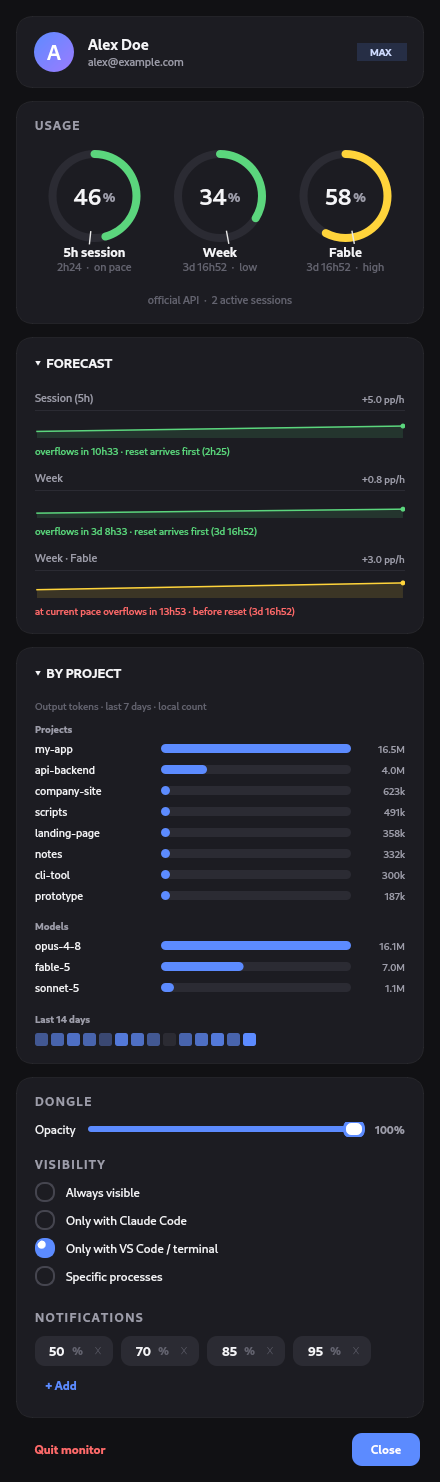
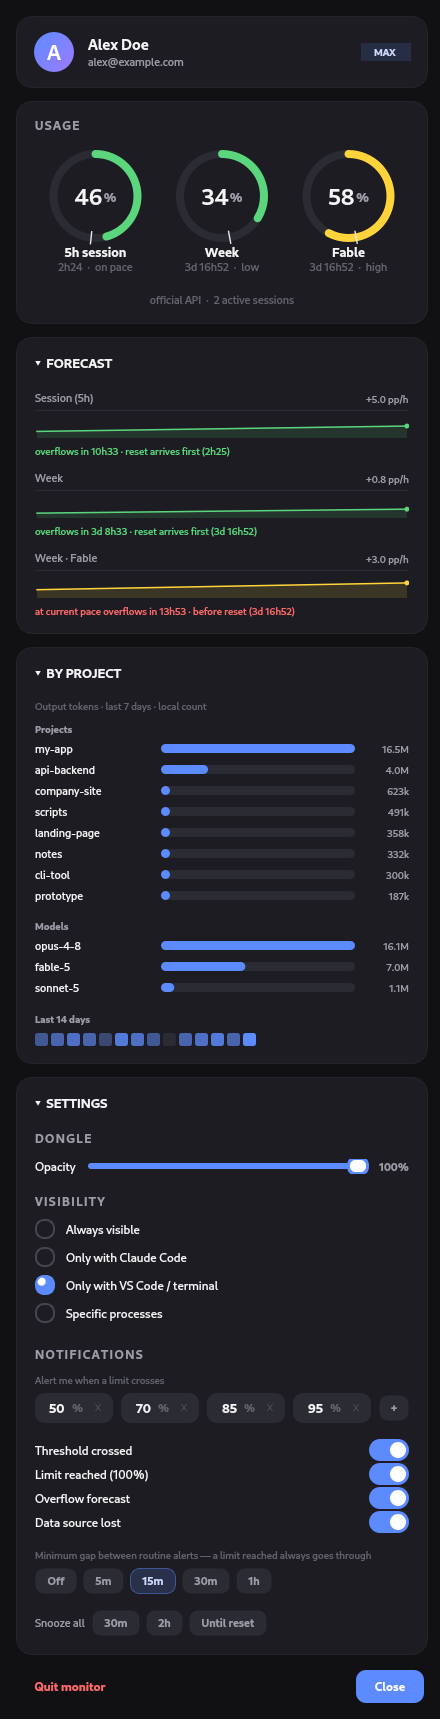
docs: refresh screenshots and describe the new border and alerts
The screenshot script also lifts the height cap before grabbing: adjustSize()
on a window whose child is a QScrollArea collapses it to the scroll area's
minimum, which cropped the dashboard PNG at 360px.

diff --git a/scripts/gen_screenshots.py b/scripts/gen_screenshots.py
@@ -125,20 +125,27 @@ def _cfg(**over):
 
 
 def gen_app_shots():
-    # dongle (opaque RGB 216x36, like the original; corner = gradient bottom color)
+    # dongle (opaque RGB 216x36; the corners get the same pure black as the body)
     d = DongleWidget(_cfg(show_mode="always"))   # always: doesn't hide during the grab
     d._overflow = False                          # clean border, no amber pulse
     d._critical = False
     d.update(); app.processEvents()
     pm = QPixmap(DONGLE_W, DONGLE_H)
-    pm.fill(QColor("#18181b"))
+    pm.fill(QColor("#000000"))
     d.render(pm)
     pm.save(str(OUT / "dongle.png"))
 
-    for name, over in (("dashboard", dict(forecast_expanded=False, projects_expanded=False)),
-                       ("dashboard-full", dict(forecast_expanded=True, projects_expanded=True))):
+    for name, over in (("dashboard", dict(forecast_expanded=False, projects_expanded=False,
+                                          settings_expanded=False)),
+                       ("dashboard-full", dict(forecast_expanded=True, projects_expanded=True,
+                                               settings_expanded=True))):
         w = DashboardWidget(_cfg(**over))
-        w.show(); app.processEvents(); w.adjustSize(); app.processEvents()
+        w.show(); app.processEvents()
+        # On a real screen the panel is capped and scrolls; a screenshot must
+        # still show the whole thing, so lift the cap just for the grab.
+        w.setMaximumHeight(16777215)
+        w.resize(w.width(), w.scroll.widget().sizeHint().height())
+        app.processEvents()
         w.grab().save(str(OUT / f"{name}.png"))
         w.close(); app.processEvents()
     print("app shots:", "dongle dashboard dashboard-full")

diff --git a/README.md b/README.md
@@ -35,15 +35,20 @@ login, nothing sent anywhere.
   week, and week-per-model usage. It appears only when it makes sense (e.g. with
   your editor or terminal open) and hides when you're not working.
 - **Overflow forecast** — computes your *burn rate* by regression over recent
-  usage and estimates the ETA to 100%. The border pulses amber when, at the
-  current pace, you'll run out before the reset.
+  usage and estimates the ETA to 100%. The border breathes amber when, at the
+  current pace, you'll run out before the reset, and red when a limit that
+  stops every model is spent. A single model running out (say your weekly
+  Fable) leaves the border alone: the others keep working.
 - **Pace marker** — every ring has a tick for *where you'd be at a linear pace*.
   Fill ahead of the tick = burning fast; behind it = comfortable. You read your
   pace at a glance, no math.
 - **Per-project & per-model usage** — from Claude Code's local logs, it shows
   which projects and models ate your week (with a 14-day heatmap).
-- **Limit notifications** — alerts when you cross a threshold and on the overflow
-  forecast. Works even with the dongle closed, via a background timer.
+- **Limit notifications** — alerts when you cross a threshold, when a limit is
+  reached and on the overflow forecast, each limit tracked as its own series.
+  Everything crossing in the same reading arrives as one notification, a
+  minimum gap paces the routine ones, and you can snooze them all for a while.
+  Works even with the dongle closed, via a background timer.
 - **Cross-platform** — Linux, macOS and Windows, with native autostart on each.
 
 ## 🖼 Preview
@@ -61,7 +66,7 @@ login, nothing sent anywhere.
   </tr>
   <tr>
     <td align="center"><em>Dashboard</em></td>
-    <td align="center"><em>Forecast &amp; per-project usage, expanded</em></td>
+    <td align="center"><em>Forecast, per-project usage and settings, expanded</em></td>
   </tr>
 </table>
 
